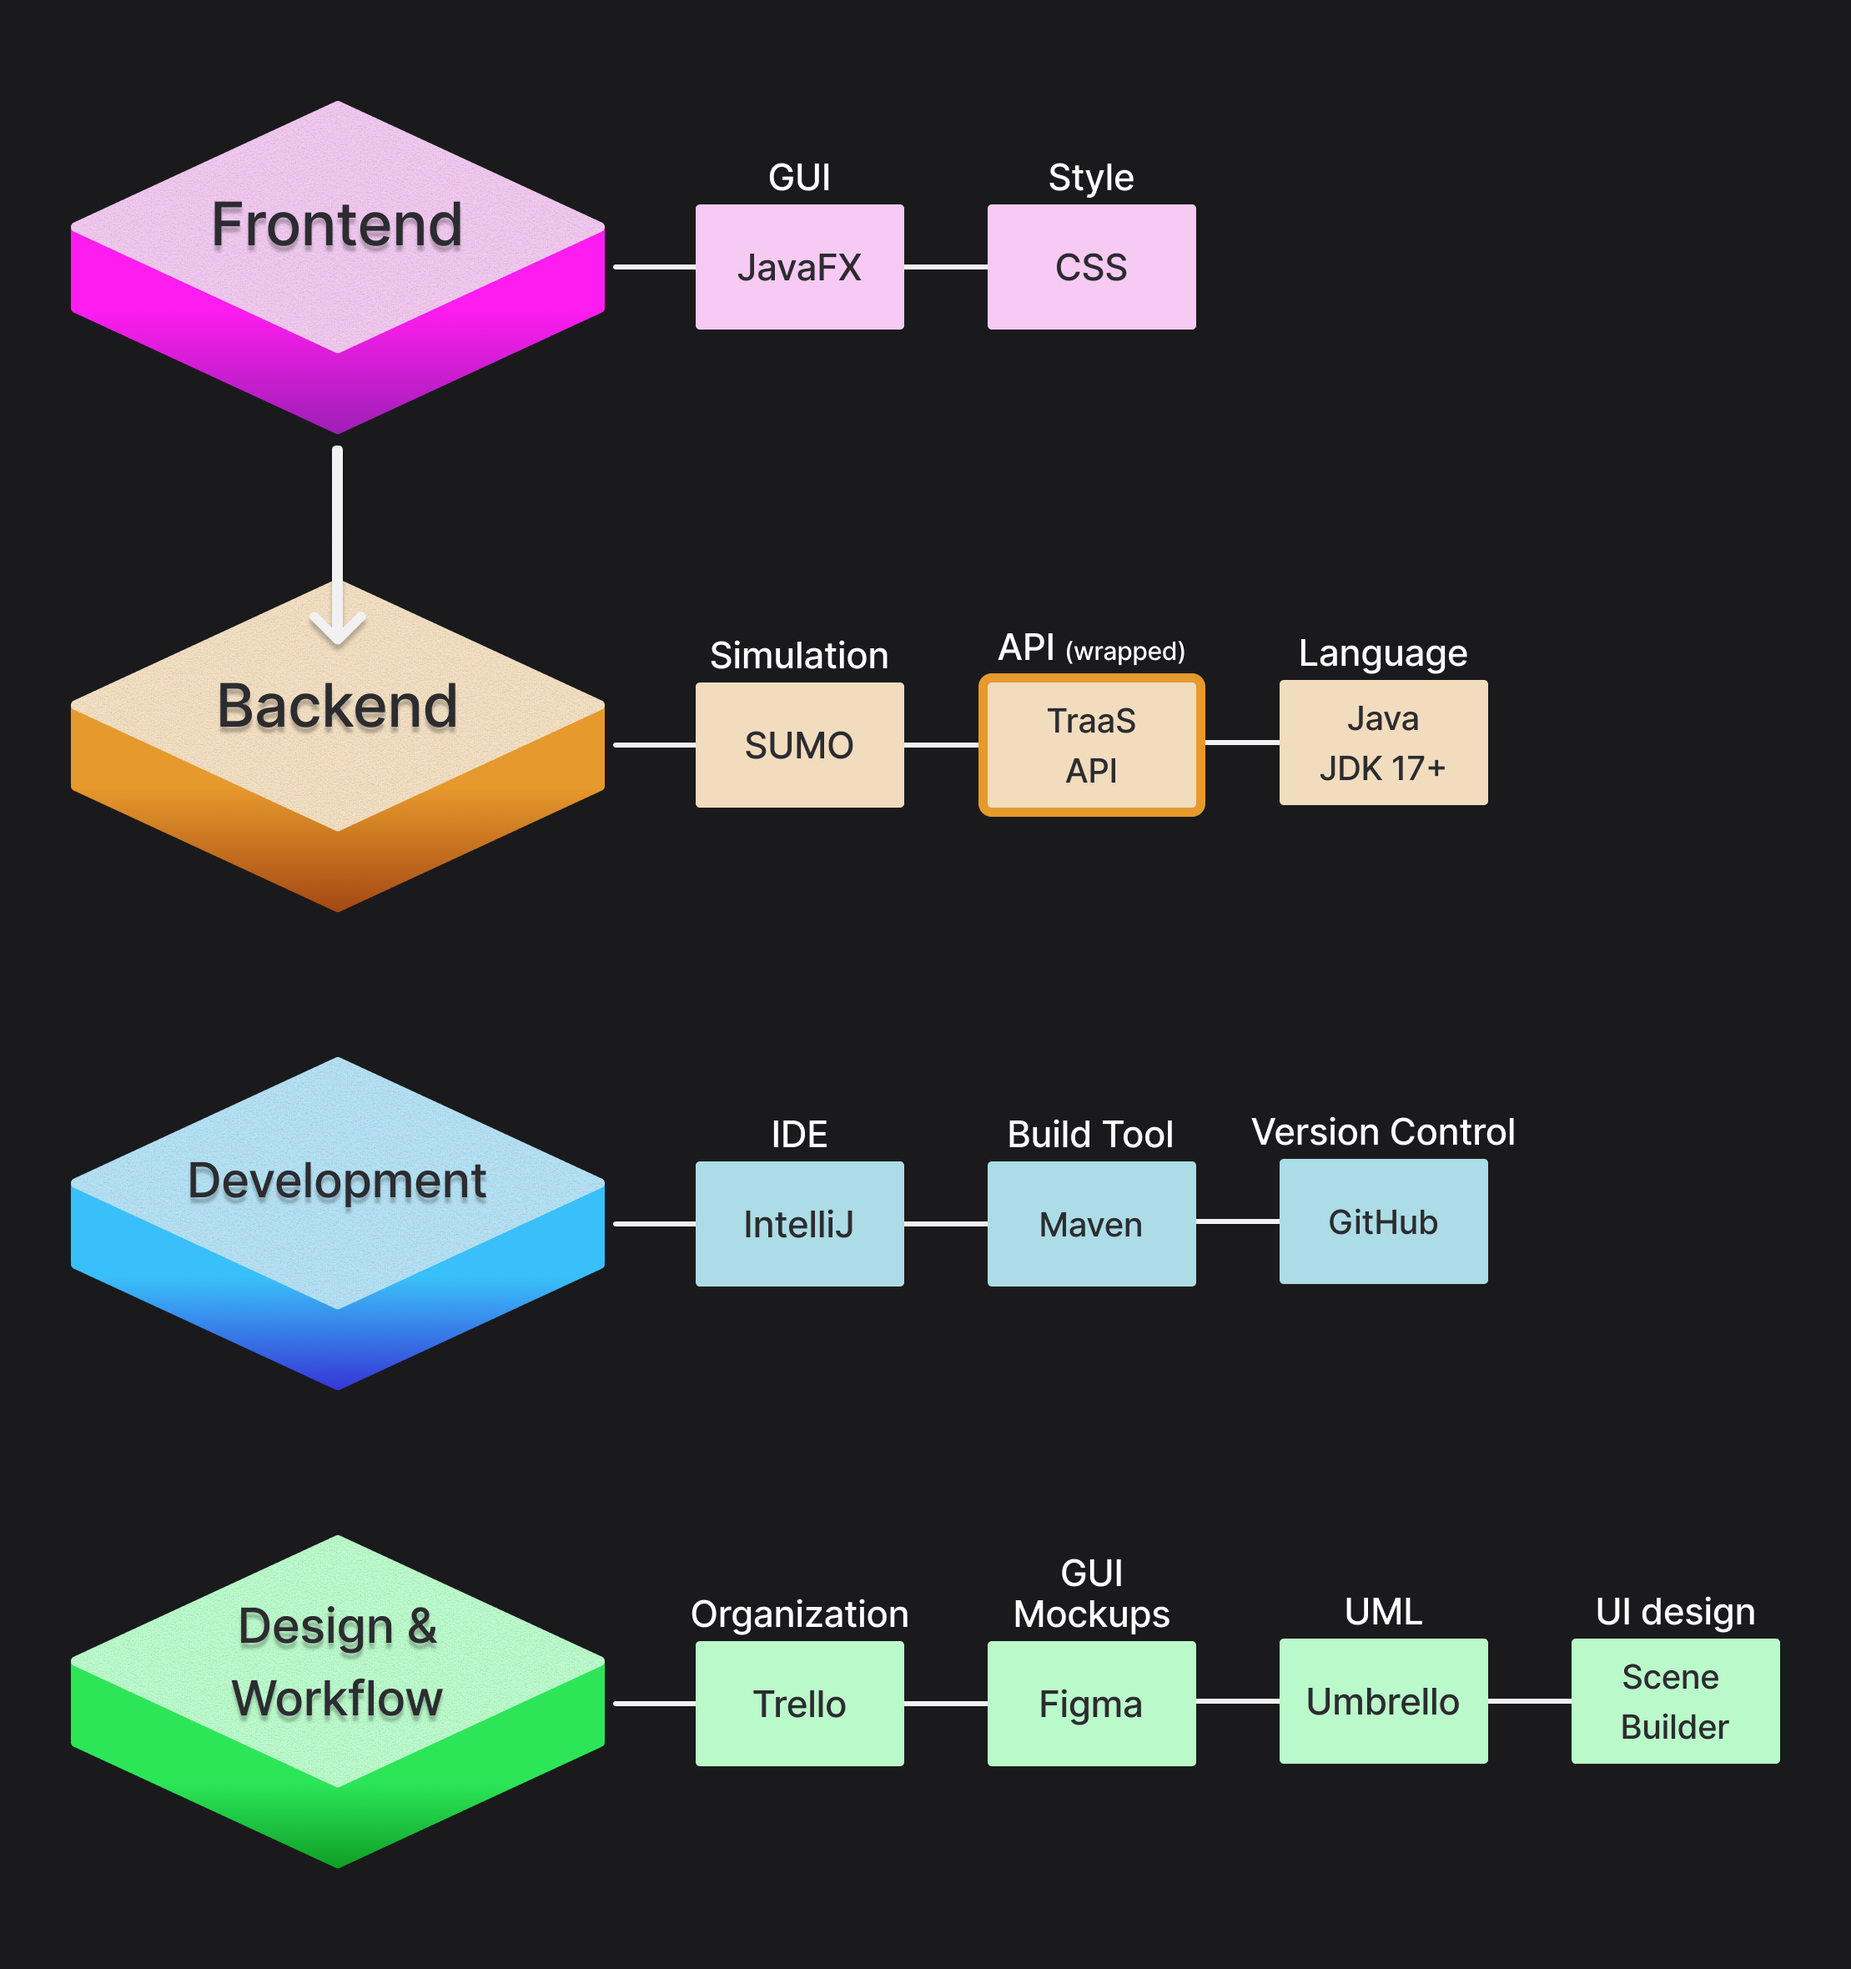
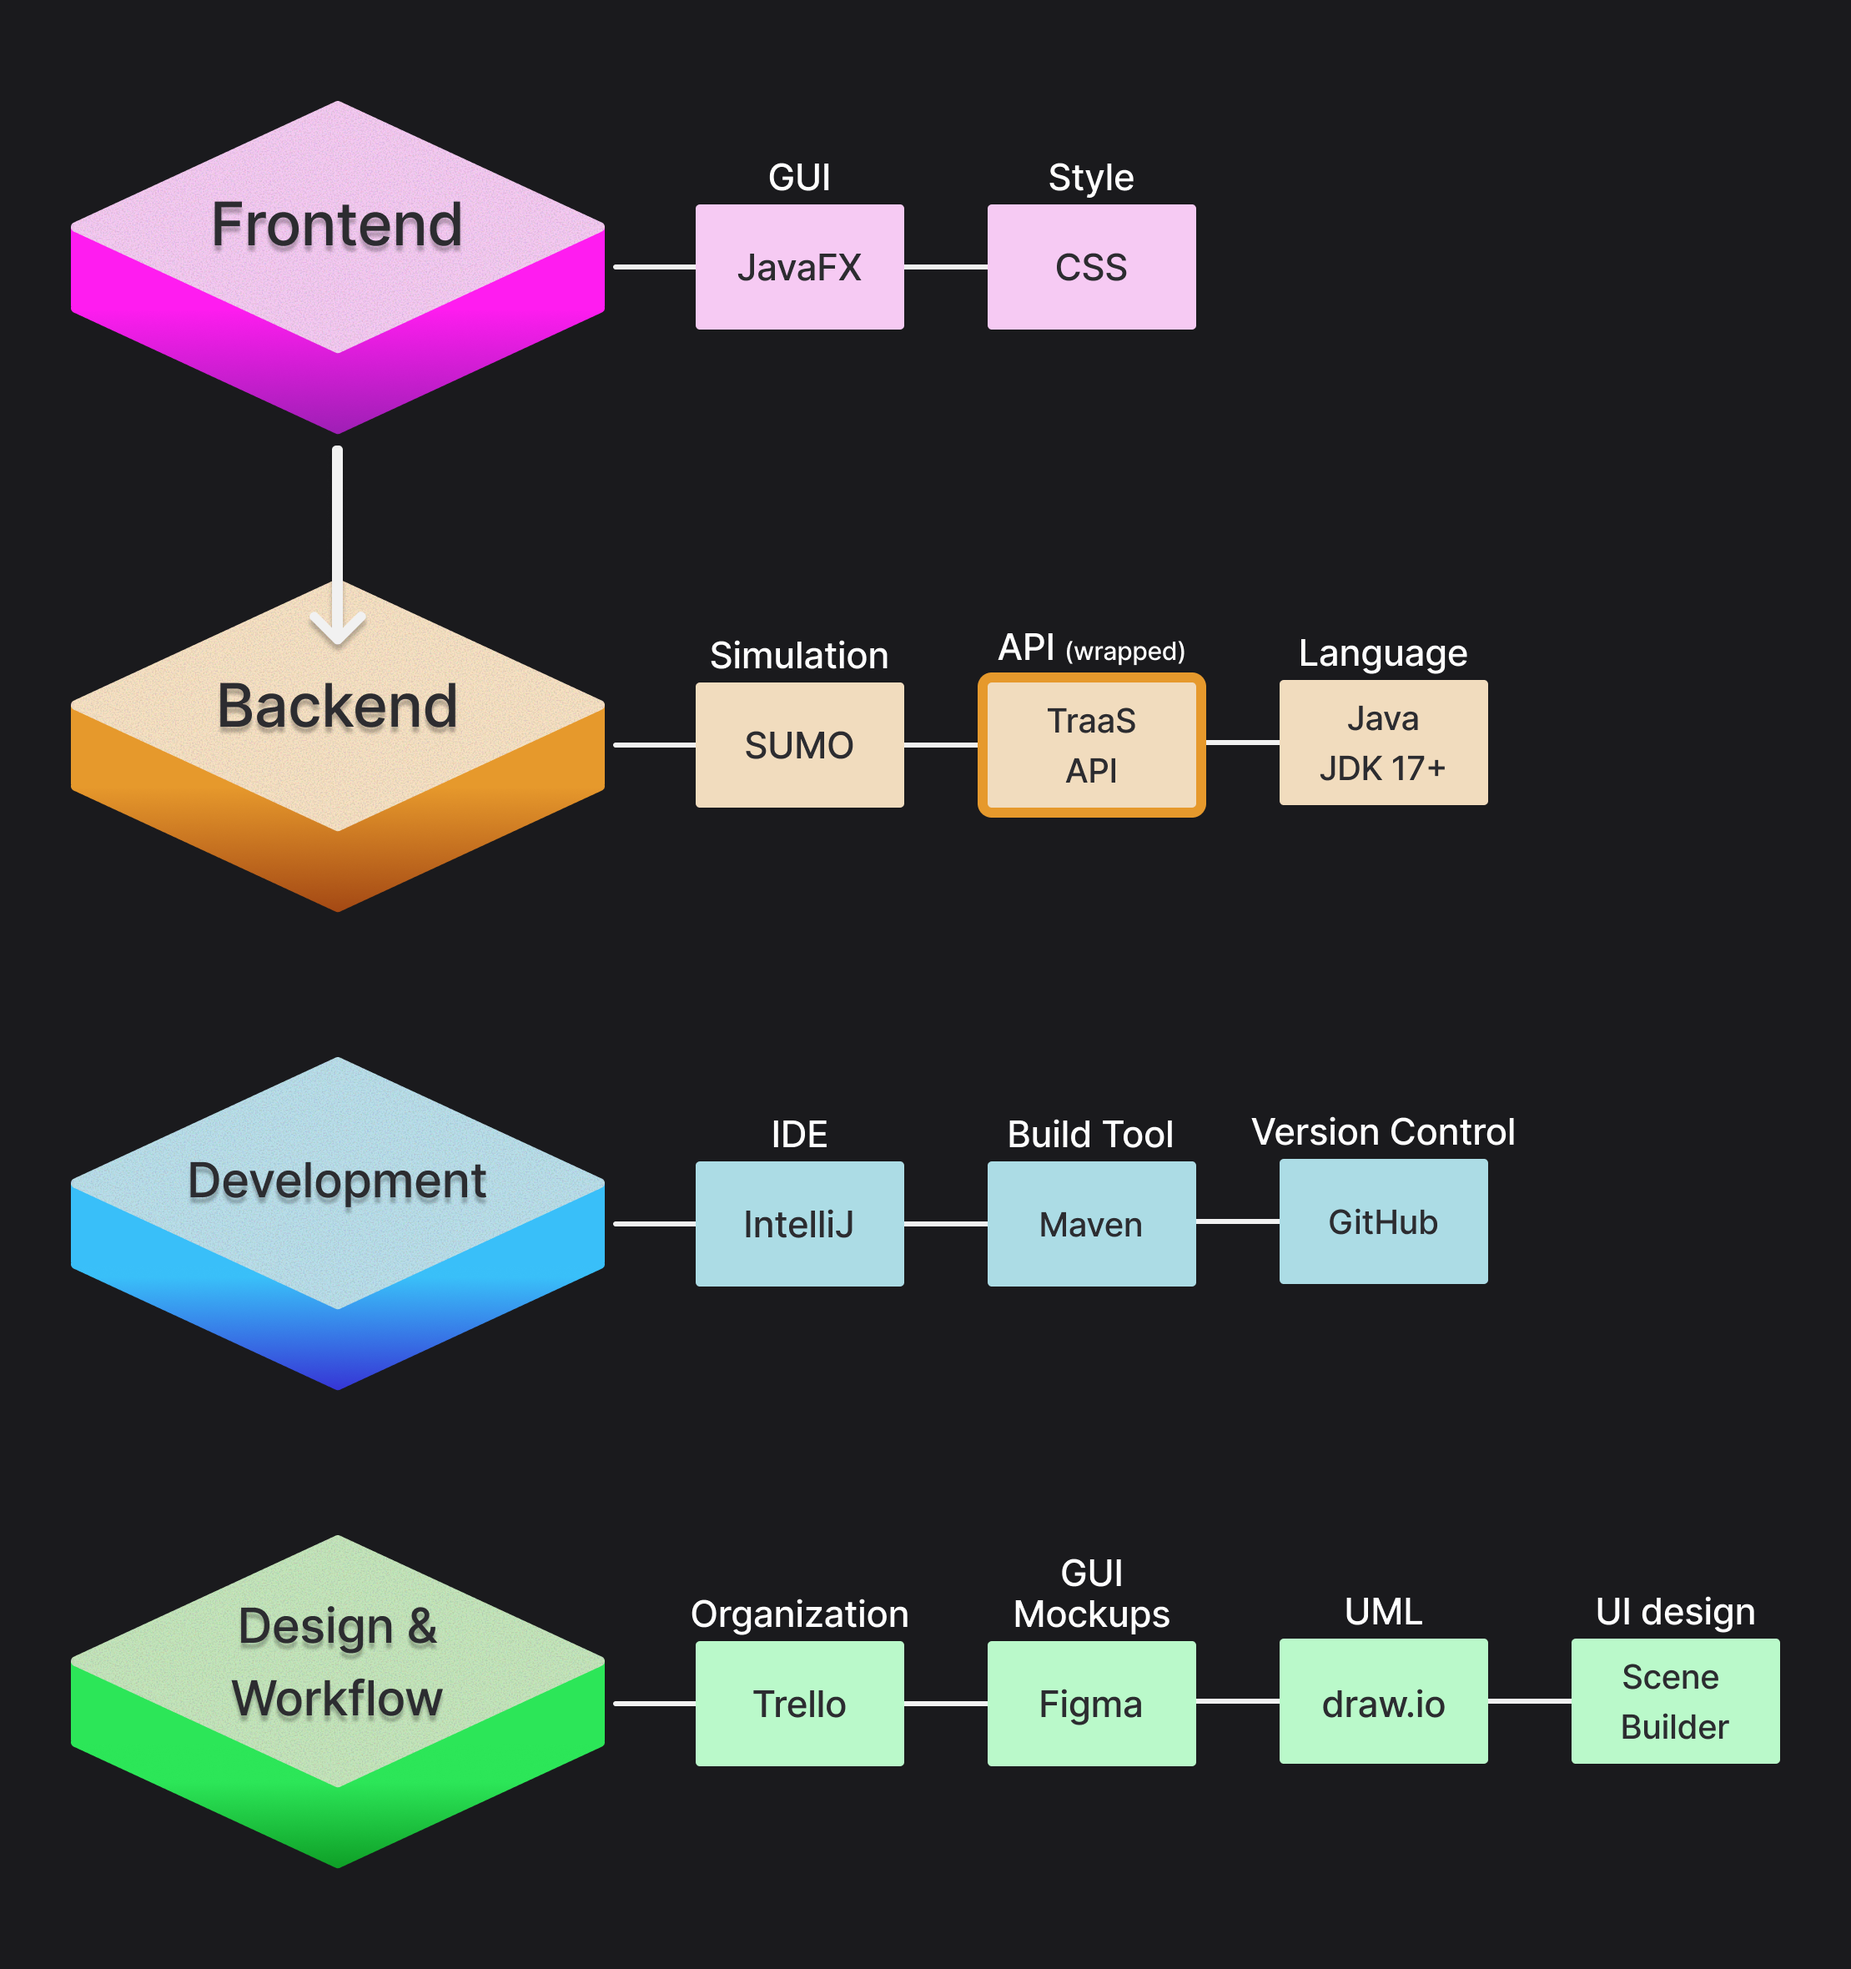
Update readme to feature Architecture Diagram

Changed region(s): [[0.0311, 0.7733, 0.311, 0.897], [0.7152, 0.8352, 0.7774, 0.897]]

diff --git a/.github/readme.md b/.github/readme.md
@@ -105,6 +105,9 @@ git clone https://github.com/LuarEbre/Real-Time-Traffic-Simulation-with-Java.git
 - Allow sumo to bypass the firewall (otherwise problems might occur when trying to run the server clientside)
 ## Architecture & Technology Stack
 <p align="center">
+    <img src="architecture.png" width="470" alt="Architecture Diagram" />
+</p>
+<p align="center">
     <img src="technologystack.png" width="470" alt="Technology Stack" />
 </p>
 
